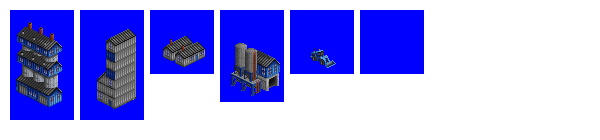
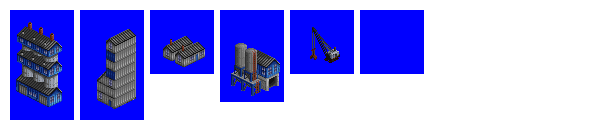
Feature: graphics for Lime Kiln that vary by date

Changed region(s): [[0.51, 0.2, 0.57, 0.4857]]

diff --git a/src/industries/lime_kiln.py b/src/industries/lime_kiln.py
@@ -16,7 +16,6 @@ When a string is expected are basically two choices: provide a string directly, 
 """
 
 industry = Industry(id='lime_kiln',
-                    graphics_change_dates=[],
                     accept_cargo_types='[GRVL, COAL]',
                     input_multiplier_1='[0, 0]',
                     input_multiplier_3='[0, 0]',
@@ -39,7 +38,8 @@ industry = Industry(id='lime_kiln',
                     name='string(STR_IND_LIME_KILN)',
                     nearby_station_name='string(STR_STATION, string(STR_TOWN), string(STR_IND_LIME_KILN))',
                     fund_cost_multiplier='45',
-                    closure_msg='TTD_STR_NEWS_INDUSTRY_CLOSURE_SUPPLY_PROBLEMS')
+                    closure_msg='TTD_STR_NEWS_INDUSTRY_CLOSURE_SUPPLY_PROBLEMS',
+                    graphics_change_dates = [1952, 1978])
 
 industry.economy_variations['BASIC'].disabled = True
 
